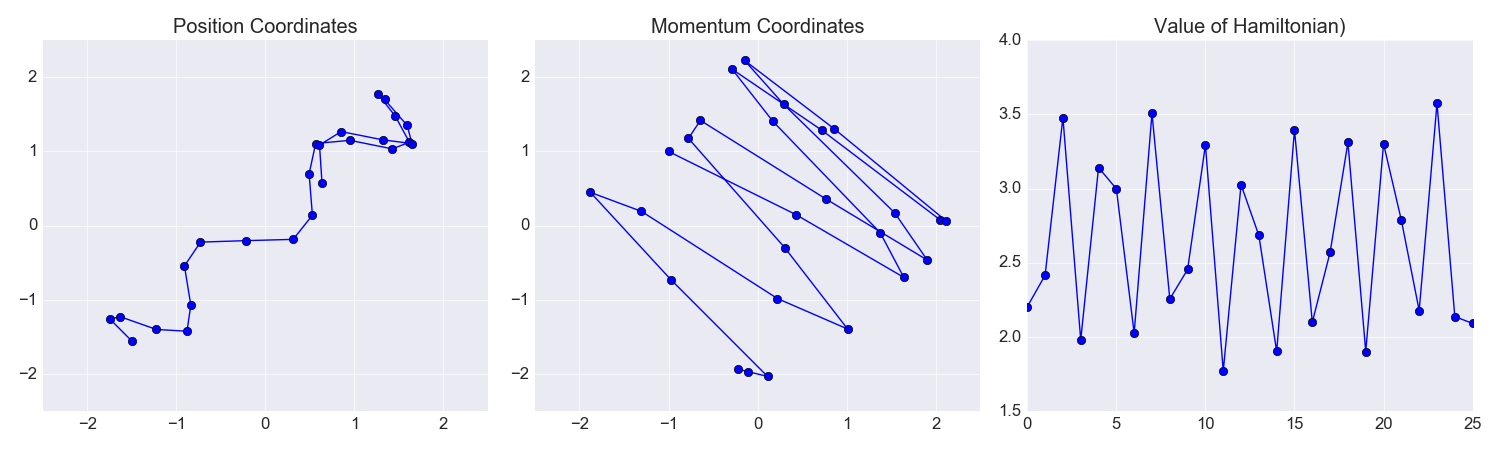
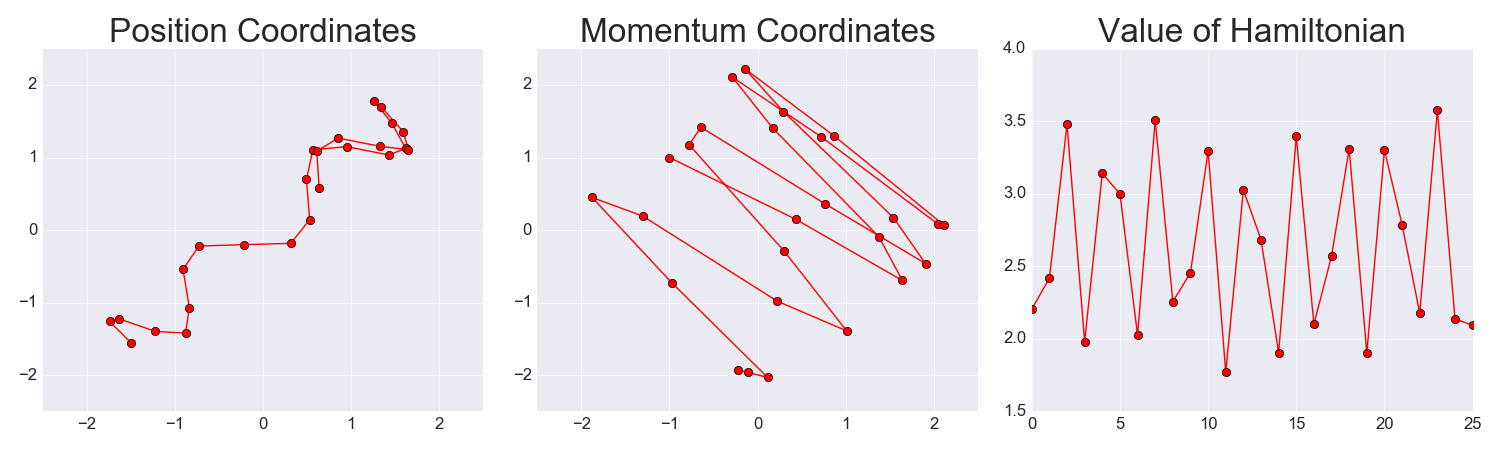
OK I got some gradient graph here ...

diff --git a/hamiltonian_neal/bivariate_gaussian_one_leapfrog.py b/hamiltonian_neal/bivariate_gaussian_one_leapfrog.py
@@ -51,6 +51,7 @@ def run_one_sample(eps, L):
 
     # Now do the leapfrog stuff.
     p = p - (0.5*eps) * grad_U(q, cov) 
+    grads_m = grad_U(q, cov)
 
     for i in range(L):
         q = q + eps * p
@@ -59,35 +60,45 @@ def run_one_sample(eps, L):
             p = p - eps * grad_U(q, cov)
             momentums = np.hstack((momentums, p))
             hamiltonians.append(f_H(q, p, cov))
+            grads_m = np.hstack((grads_m, grad_U(q, cov)))
 
     p = p - (0.5*eps) * grad_U(q, cov)
+    grads_m = np.hstack((grads_m, grad_U(q, cov)))
     momentums = np.hstack((momentums, p))
     hamiltonians.append(f_H(q, p, cov))
     p = -p
 
     hamiltonians = np.array(hamiltonians)
-    return positions, momentums, hamiltonians
+    return positions, momentums, hamiltonians, grads_m
 
 
-def plot(positions, momentums, hamiltonians, figdir="draft_figures/"):
-    """  Plotting!!! """
+def plot(positions, momentums, hamiltonians, grads_m, figdir="draft_figures/"):
+    """ 
+    This creates two plots. One is to match Neal's figure. The other is for
+    understanding the gradients of the momentums. 
+    """
     fig, axarr = plt.subplots(1,3, figsize=(15,4.5))
-
     axarr[0].plot(positions[0,:], positions[1,:], '-ro')
-    axarr[0].set_title("Position Coordinates")
+    axarr[0].set_title("Position Coordinates", fontsize=24)
     axarr[0].set_xlim([-2.5,2.5])
     axarr[0].set_ylim([-2.5,2.5])
     axarr[1].plot(momentums[0,:], momentums[1,:], '-ro')
-    axarr[1].set_title("Momentum Coordinates")
+    axarr[1].set_title("Momentum Coordinates", fontsize=24)
     axarr[1].set_xlim([-2.5,2.5])
     axarr[1].set_ylim([-2.5,2.5])
     axarr[2].plot(hamiltonians, '-ro')
-    axarr[2].set_title("Value of Hamiltonian)")
-
+    axarr[2].set_title("Value of Hamiltonian", fontsize=24)
     plt.tight_layout()
     plt.savefig(FIG_DIR+"bivariate_gaussians_one_sample.png")
 
+    fig = plt.figure(figsize=(8,6))
+    plt.title("Momentum Gradients", fontsize=25)
+    plt.plot(grads_m[0,:], '-yo', label='First Coord.')
+    plt.plot(grads_m[1,:], '-ko', label='Second Coord.')
+    plt.ylim([-10,10])
+    plt.legend(loc='lower right')
+    plt.savefig(FIG_DIR+"bivariate_gaussians_gradients.png")
 
 if __name__ == "__main__":
-    positions, momentums, hamiltonians = run_one_sample(eps=0.25, L=24)
-    plot(positions, momentums, hamiltonians)
+    positions, momentums, hamiltonians, grads_m = run_one_sample(eps=0.25, L=24)
+    plot(positions, momentums, hamiltonians, grads_m)
